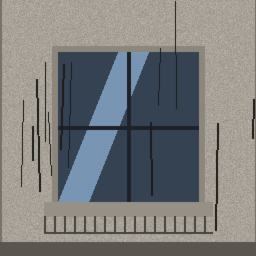
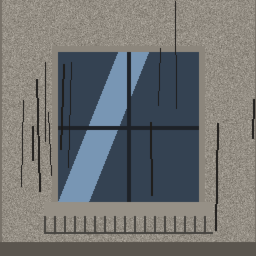
Phase 5/6 tuning: farther view cameras, calmer sun/ambient, merged static meshes (draw-call reduction), district HLOD, denser grass, dual perf captures

diff --git a/native3d/tools/gen_env_textures.py b/native3d/tools/gen_env_textures.py
@@ -55,7 +55,7 @@ def facade_cell(path, seed, style):
     """One floor cell (256x256): 1 window bay ~4.2m wide, 3m floor."""
     rnd = random.Random(seed)
     w = h = 256
-    img = noise_rgb((w, h), (168, 162, 152), 34, seed).convert("RGBA")
+    img = noise_rgb((w, h), (148, 142, 132), 42, seed).convert("RGBA")
     d = ImageDraw.Draw(img)
     # panel seams
     for x in (0, 255):
@@ -82,7 +82,7 @@ def facade_cell(path, seed, style):
         d.line([(wx + ww // 2, wy), (wx + ww // 2, wy + wh)], fill=(30, 34, 40, 160), width=4)
         d.line([(wx, wy + wh // 2), (wx + ww, wy + wh // 2)], fill=(30, 34, 40, 160), width=4)
     else:
-        cracks(d, wx + ww, wy + wh, rnd, 5, color=(200, 200, 200, 120), width=1)
+        cracks(d, wx + ww, wy + wh, rnd, 5, color=(38, 38, 40), width=1)
         d.polygon([(wx + 20, wy + 30), (wx + 70, wy + 20), (wx + 55, wy + 90), (wx + 15, wy + 80)], fill=(10, 10, 10, 255))
     # balcony slab + railing for styles 1/2
     if style in (1, 2):
@@ -121,7 +121,7 @@ def concrete(path, seed):
 def plaza(path):
     rnd = random.Random(7)
     s = 1024
-    img = noise_rgb((s, s), (158, 152, 142), 36, 7).convert("RGBA")
+    img = noise_rgb((s, s), (146, 140, 130), 40, 7).convert("RGBA")
     d = ImageDraw.Draw(img)
     # slab grid
     for i in range(0, s + 1, 128):
